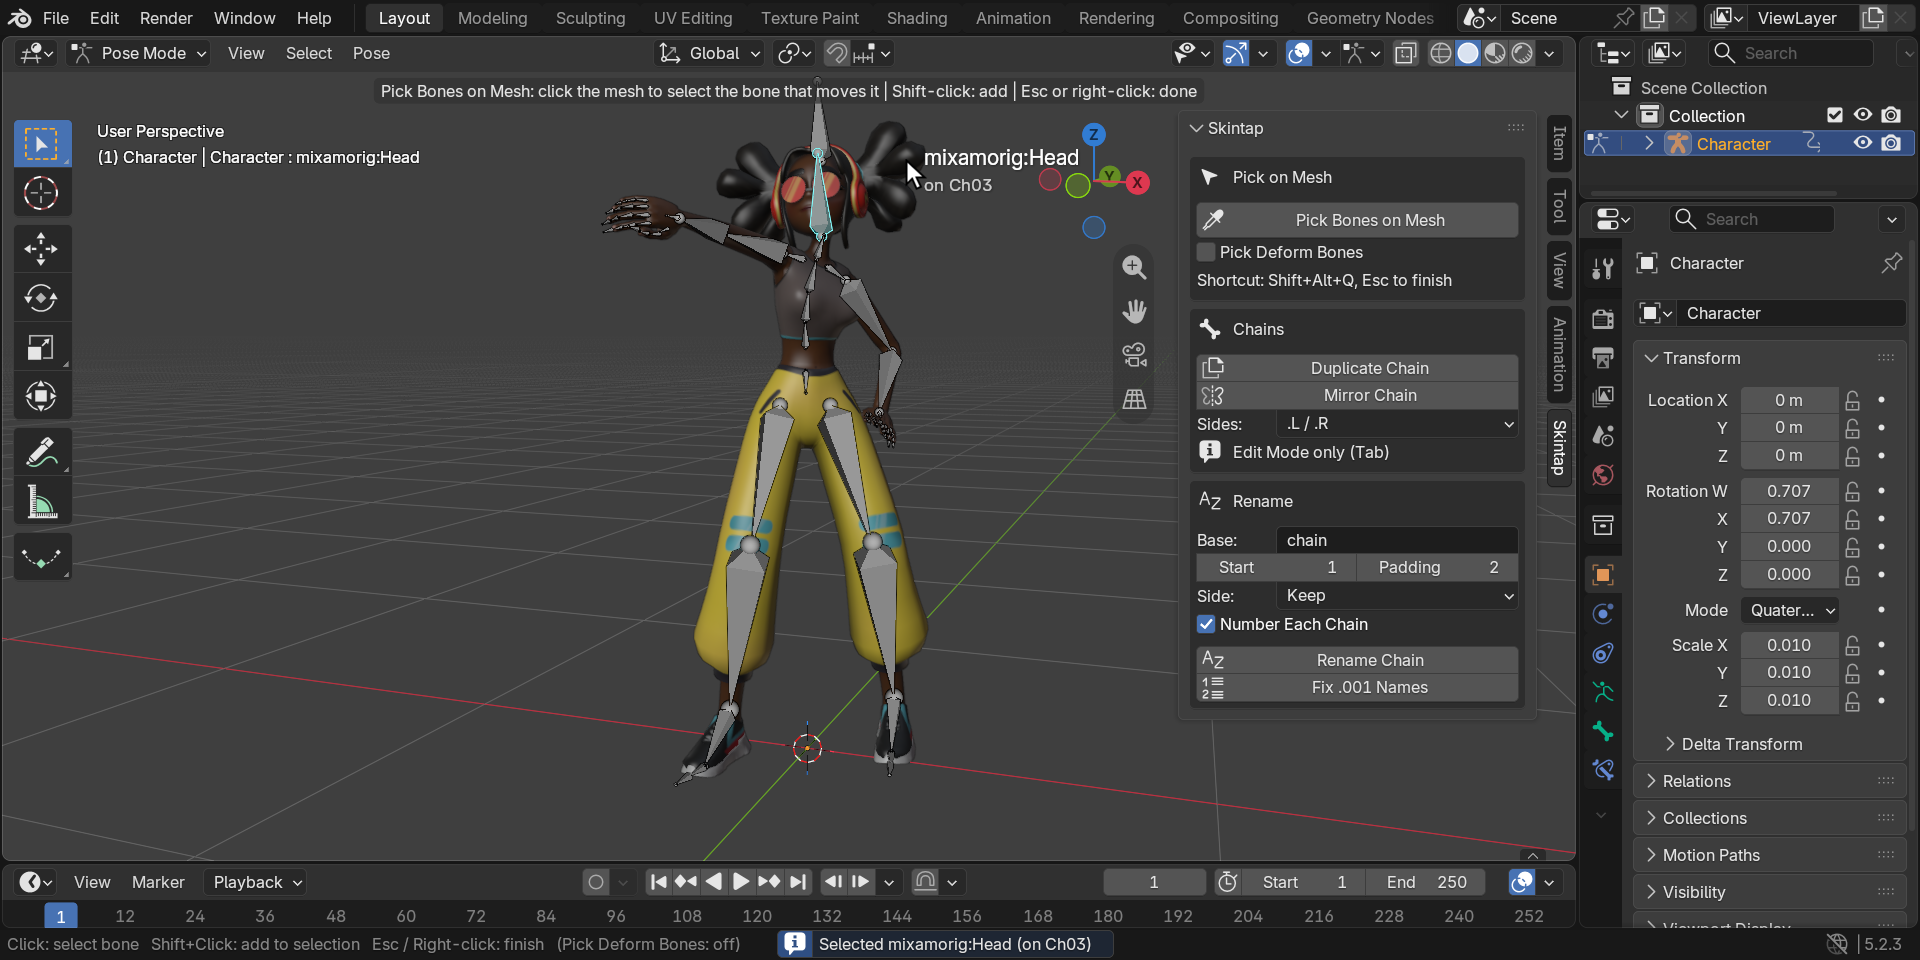
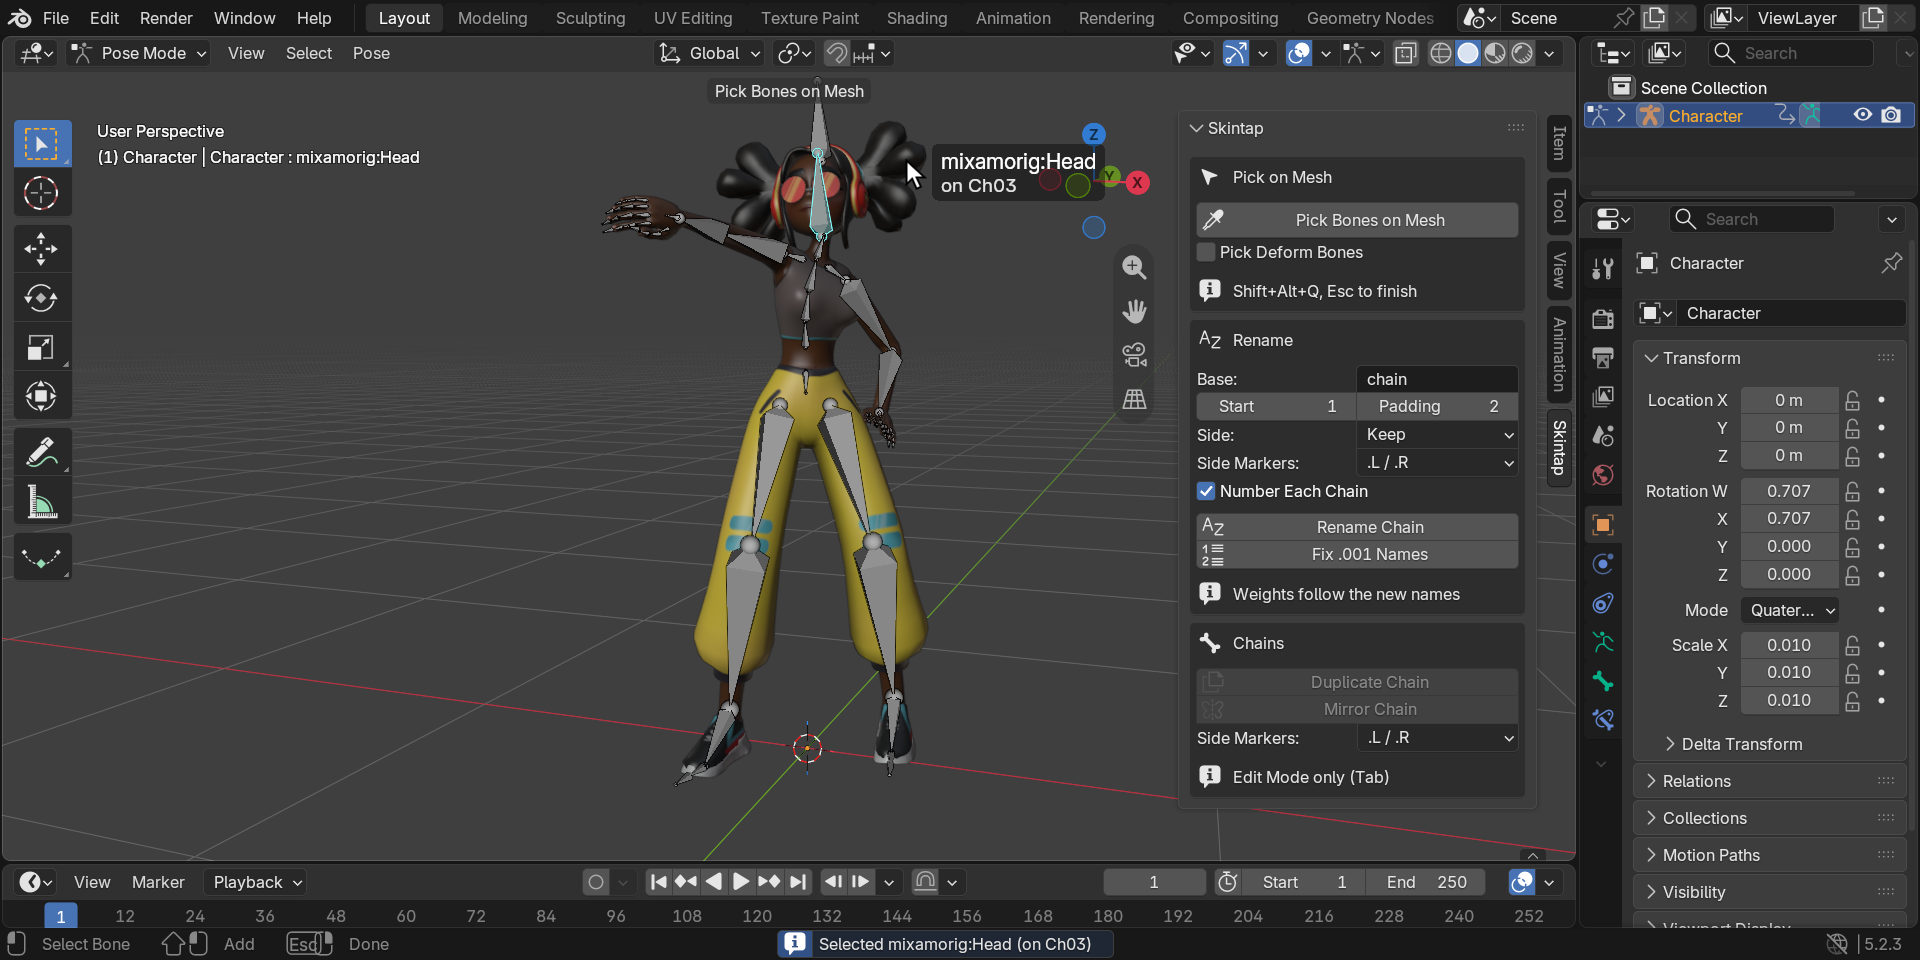
Skintap: Michelle comparison re-captured on 1.0.5 (label on its plate, whole); the 1.0.3 caveat removed

diff --git a/skintap/index.html b/skintap/index.html
@@ -138,7 +138,7 @@
 
   <h2 id="imported">Imported game characters</h2>
   <figure>
-    <a href="img/mixamo-skintap.png"><img src="img/mixamo-blender-click-vs-skintap.png" alt="Two captures of the same view of Michelle, a Mixamo character imported into Blender 5.2, in Pose Mode with her bones drawn in front: grey octahedral bones run through her arms, legs, spine and head. Left, labelled 'Blender's own click: nothing selected': the cursor on her hair, to the right of her head, after a plain click; no bone is highlighted. Right, labelled 'Skintap: mixamorig:Head selected': the same spot with Skintap's picker, the label 'mixamorig:Head, on Ch03' next to the cursor and the head bone highlighted" width="1092" height="752" loading="lazy"></a>
+    <a href="img/mixamo-skintap.png"><img src="img/mixamo-blender-click-vs-skintap.png" alt="Two captures of the same view of Michelle, a Mixamo character imported into Blender 5.2, in Pose Mode with her bones drawn in front: grey octahedral bones run through her arms, legs, spine and head. Left, labelled 'Blender's own click: nothing selected': the cursor on her hair, to the right of her head, after a plain click; no bone is highlighted. Right, labelled 'Skintap: mixamorig:Head selected': the same spot with Skintap's picker, the label 'mixamorig:Head, on Ch03' next to the cursor and the head bone highlighted" width="1332" height="746" loading="lazy"></a>
     <figcaption>Michelle, a Mixamo character imported with Blender's glTF importer. A click on her hair: Blender's own click selected nothing; Skintap selected <code>mixamorig:Head</code>. The bones are drawn in front (In Front on) so you can see where they are; the labels above the captures are ours. Character: Michelle, from Adobe Mixamo, not included with Skintap.</figcaption>
   </figure>
   <p>On imported Mixamo, FBX or glTF skeletons the bones run through the middle of each limb, so Blender's own click often finds the limb bones already. Skintap adds the head, hair, wide clothing and torso: over a grid of points in front view, Blender's click selected nothing at 521 of 1,077 points on Michelle and 617 of 1,063 on the Mixamo soldier from three.js's examples; Skintap selected a bone that moves the spot at every point, on Blender 4.2 and 5.2. Names like <code>mixamorig:LeftArm</code> work as they are. Import tip: in Blender's glTF importer, set <strong>Bone Dir</strong> to <strong>Temperance</strong> (<a href="quick-start.html#imported">how-to</a>).</p>
@@ -250,7 +250,7 @@
   </details>
   <details id="how">
     <summary>How these images were made</summary>
-    <p>The images and the video of Rain are real Blender 5.2.3 windows on Linux with Skintap 1.0.5 installed from its zip; the Michelle comparison was captured with 1.0.3, whose label had no dark plate. Rain v3.3 is Blender Studio's file as downloaded (CC BY 4.0); by script we switched her limbs to FK, set Subdivision Surface level 2, posed her, set the view and added the hair strand and ribbon bones. Every hover, click and key press is a real input event, and every label, selection, name and report is Skintap's own. The animations were recorded one frame at a time (Blender draws in software on this machine), so they play smoother than it ran live; the arrow and the orange click rings are drawn in at the pointer's real positions.</p>
+    <p>Every image and the video are real Blender 5.2.3 windows on Linux with Skintap 1.0.5 installed from its zip. Michelle is three.js's Michelle.glb, imported with Blender's glTF importer (Bone Dir: Temperance, bone shapes off), with In Front on for that image so the bones show. Rain v3.3 is Blender Studio's file as downloaded (CC BY 4.0); by script we switched her limbs to FK, set Subdivision Surface level 2, posed her, set the view and added the hair strand and ribbon bones. Every hover, click and key press is a real input event, and every label, selection, name and report is Skintap's own. The animations were recorded one frame at a time (Blender draws in software on this machine), so they play smoother than it ran live; the arrow and the orange click rings are drawn in at the pointer's real positions.</p>
   </details>
 </main>
 <footer>
